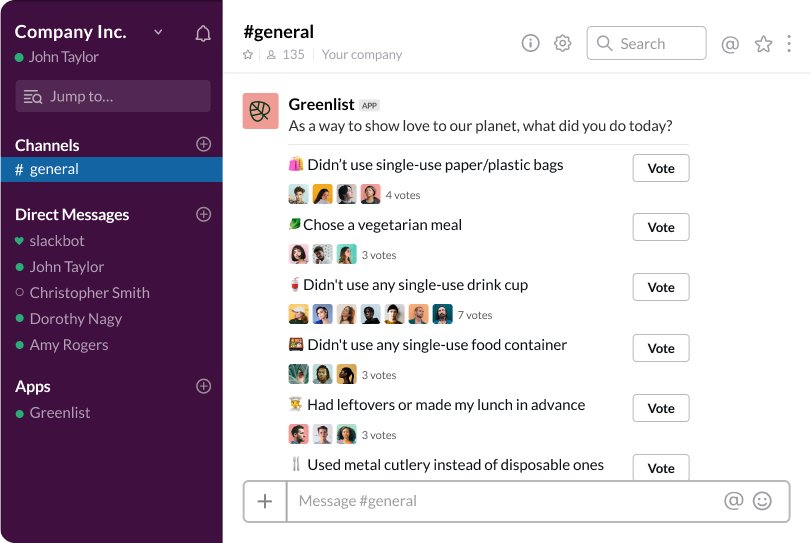
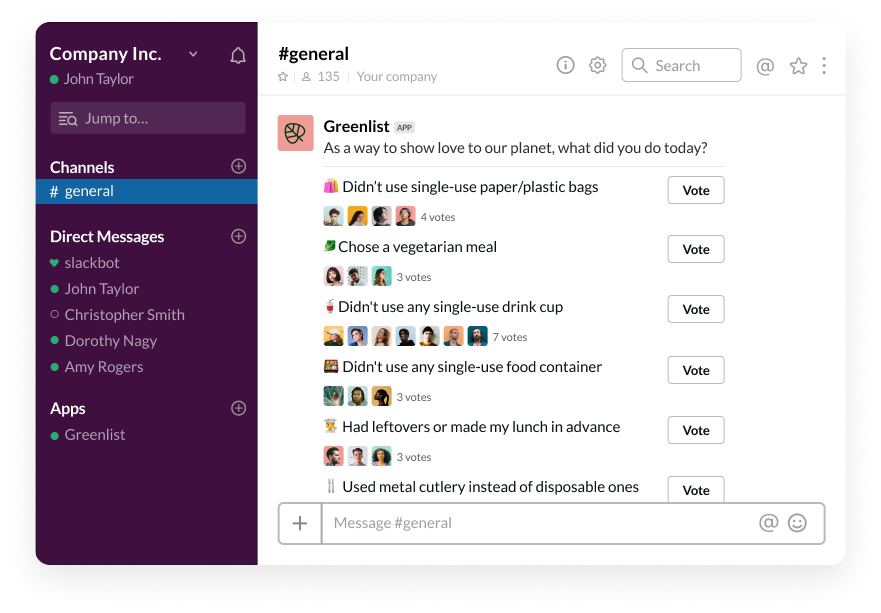
add new section 'slack'

diff --git a/src/css/style.css b/src/css/style.css
@@ -187,4 +187,38 @@
     height: 969px;
     background: #FFE6E2;
     border-radius: 0px;
+    padding-top: 180px;
+
+}
+
+.slack .slack_title {
+    font-family: GT Super Display;
+    font-style: normal;
+    font-weight: 900;
+    font-size: 59px;
+    line-height: 77px;
+    text-align: center;
+    letter-spacing: 3px;
+    width: 670px;
+    color: #000000;
+    margin: 0 auto;
+    margin-bottom: 41px;
+}
+
+.slack .slack_text {
+    width: 578px;
+    font-family: Roboto;
+    font-style: normal;
+    font-weight: normal;
+    font-size: 18px;
+    line-height: 27px;
+    text-align: center;
+    color: #000000;
+    margin: 0 auto;
+    margin-bottom: 79px;
+}
+
+.slack .slack_chat {
+    display: block;
+    margin: 0 auto;
 }

diff --git a/src/index.html b/src/index.html
@@ -65,7 +65,9 @@
 
     <section class="slack">
         <div class="container">
-
+            <div class="slack_title">Create a cleaner and better world, on Slack.</div>
+            <div class="slack_text">Whether it’s choosing reusable food and liquid containers or picking the vegetarian option for the office lunch, Greenlist allows anyone in your team to set a positive role model and influence other staff in being more cautious about plastic pollution and using resources sustainably.</div>
+            <img src="img/chat.png" alt="chat" class="slack_chat">
         </div>
     </section>
 
